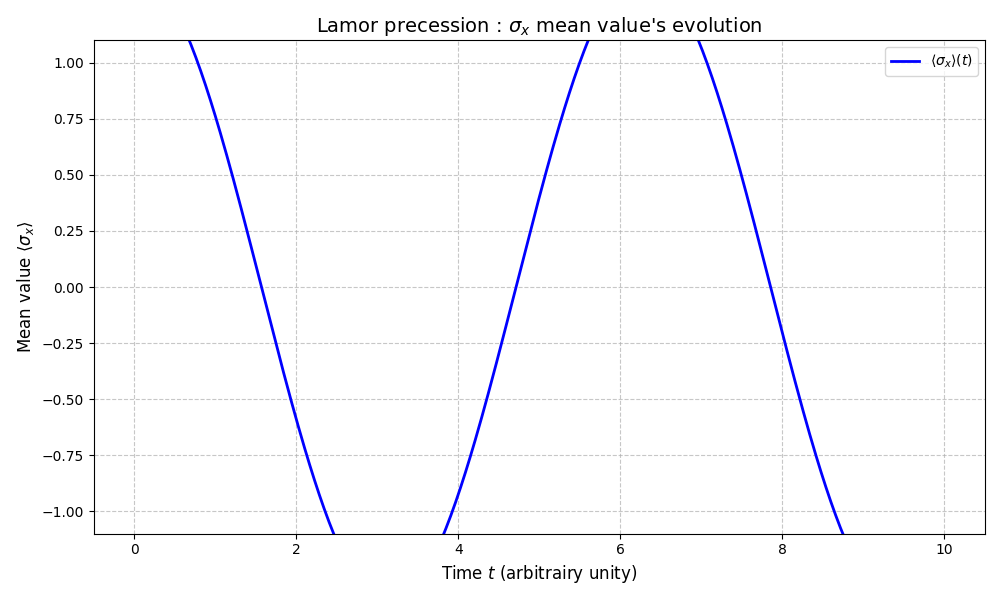
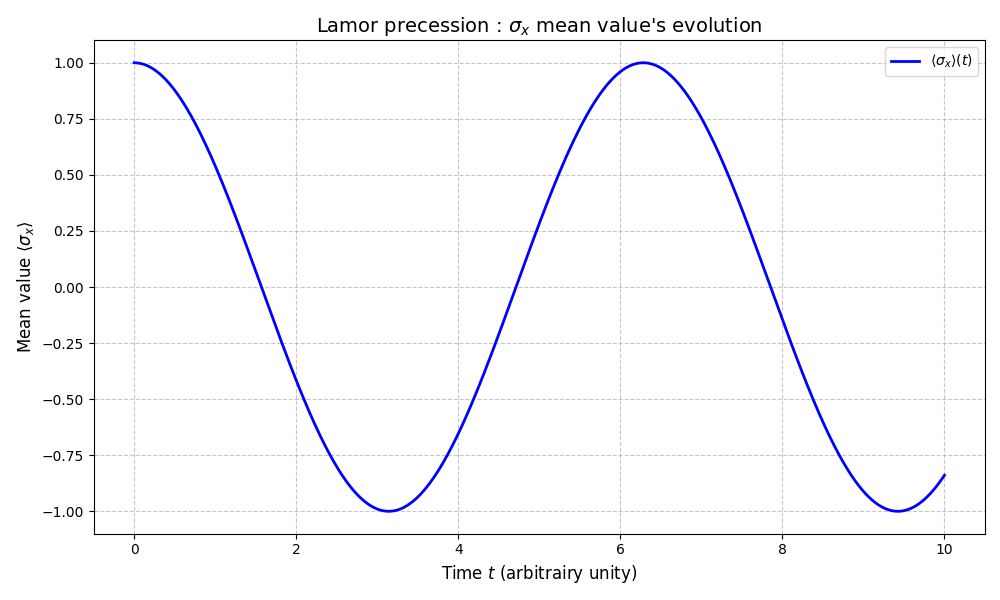
Edit README

diff --git a/README.md b/README.md
@@ -3,7 +3,7 @@
 
 ---
 
-## 🌟 Motivation
+## Motivation
 
 My goal is to join the **Master 2 Quantum Information**  
 To prepare myself seriously — and to demonstrate both motivation and technical maturity — I decided to build a structured project that reconstructs the foundations of quantum computing **from first principles**, both theoretically and numerically.
@@ -13,13 +13,13 @@ It reflects my desire not only to *learn*, but to *understand deeply*, *simulate
 
 ---
 
-## 📘 Project Overview
+## Project Overview
 
 The project is divided into two complementary parts:
 
 ---
 
-# 🧠 **Part I — Theoretical Foundations (10 Chapters)**  
+# **Part I — Theoretical Foundations (10 Chapters)**  
 Before writing a single line of code, I spent significant time building a **complete theoretical base** for single‑qubit quantum mechanics and quantum information.
 
 These 10 chapters form a coherent mini‑course that I wrote for myself to ensure I truly understood the physics and mathematics behind qubits.
@@ -41,7 +41,7 @@ These chapters were essential for me: they allowed me to approach the coding par
 
 ---
 
-# 💻 **Part II — Numerical Simulation (Jupyter Notebooks)**
+# **Part II — Numerical Simulation (Jupyter Notebooks)**
 **Note: All notebooks share a centralized utils.py module for core matrix mathematics and visualization functions, ensuring clean and reusable code.*
 
 After building the theoretical base, I translated the concepts into **NumPy simulations** and **visualizations**.
@@ -89,7 +89,7 @@ This notebook will demonstrate my ability to transition from theory to practice 
 
 ---
 
-## 🧠 What I Learned
+## What I Learned
 
 Throughout this project, I strengthened my understanding of:
 
@@ -111,9 +111,9 @@ This project also helped me develop:
 
 ---
 
-## 🎯 Next Steps
+## Next Steps
 
-- Complete the Qiskit notebook  
+- Complete the Qiskit repository  
 - Reproduce Bloch sphere visualizations using Qiskit  
 - Explore measurement and the Born rule  
 - Study multi‑qubit systems and entanglement  
@@ -121,7 +121,7 @@ This project also helped me develop:
 
 ---
 
-## 🙋♂ About Me
+##  About Me
 
 I have a **Master 1 in Physics**, and I am deeply motivated to specialize in **quantum information and quantum technologies**.  
 
